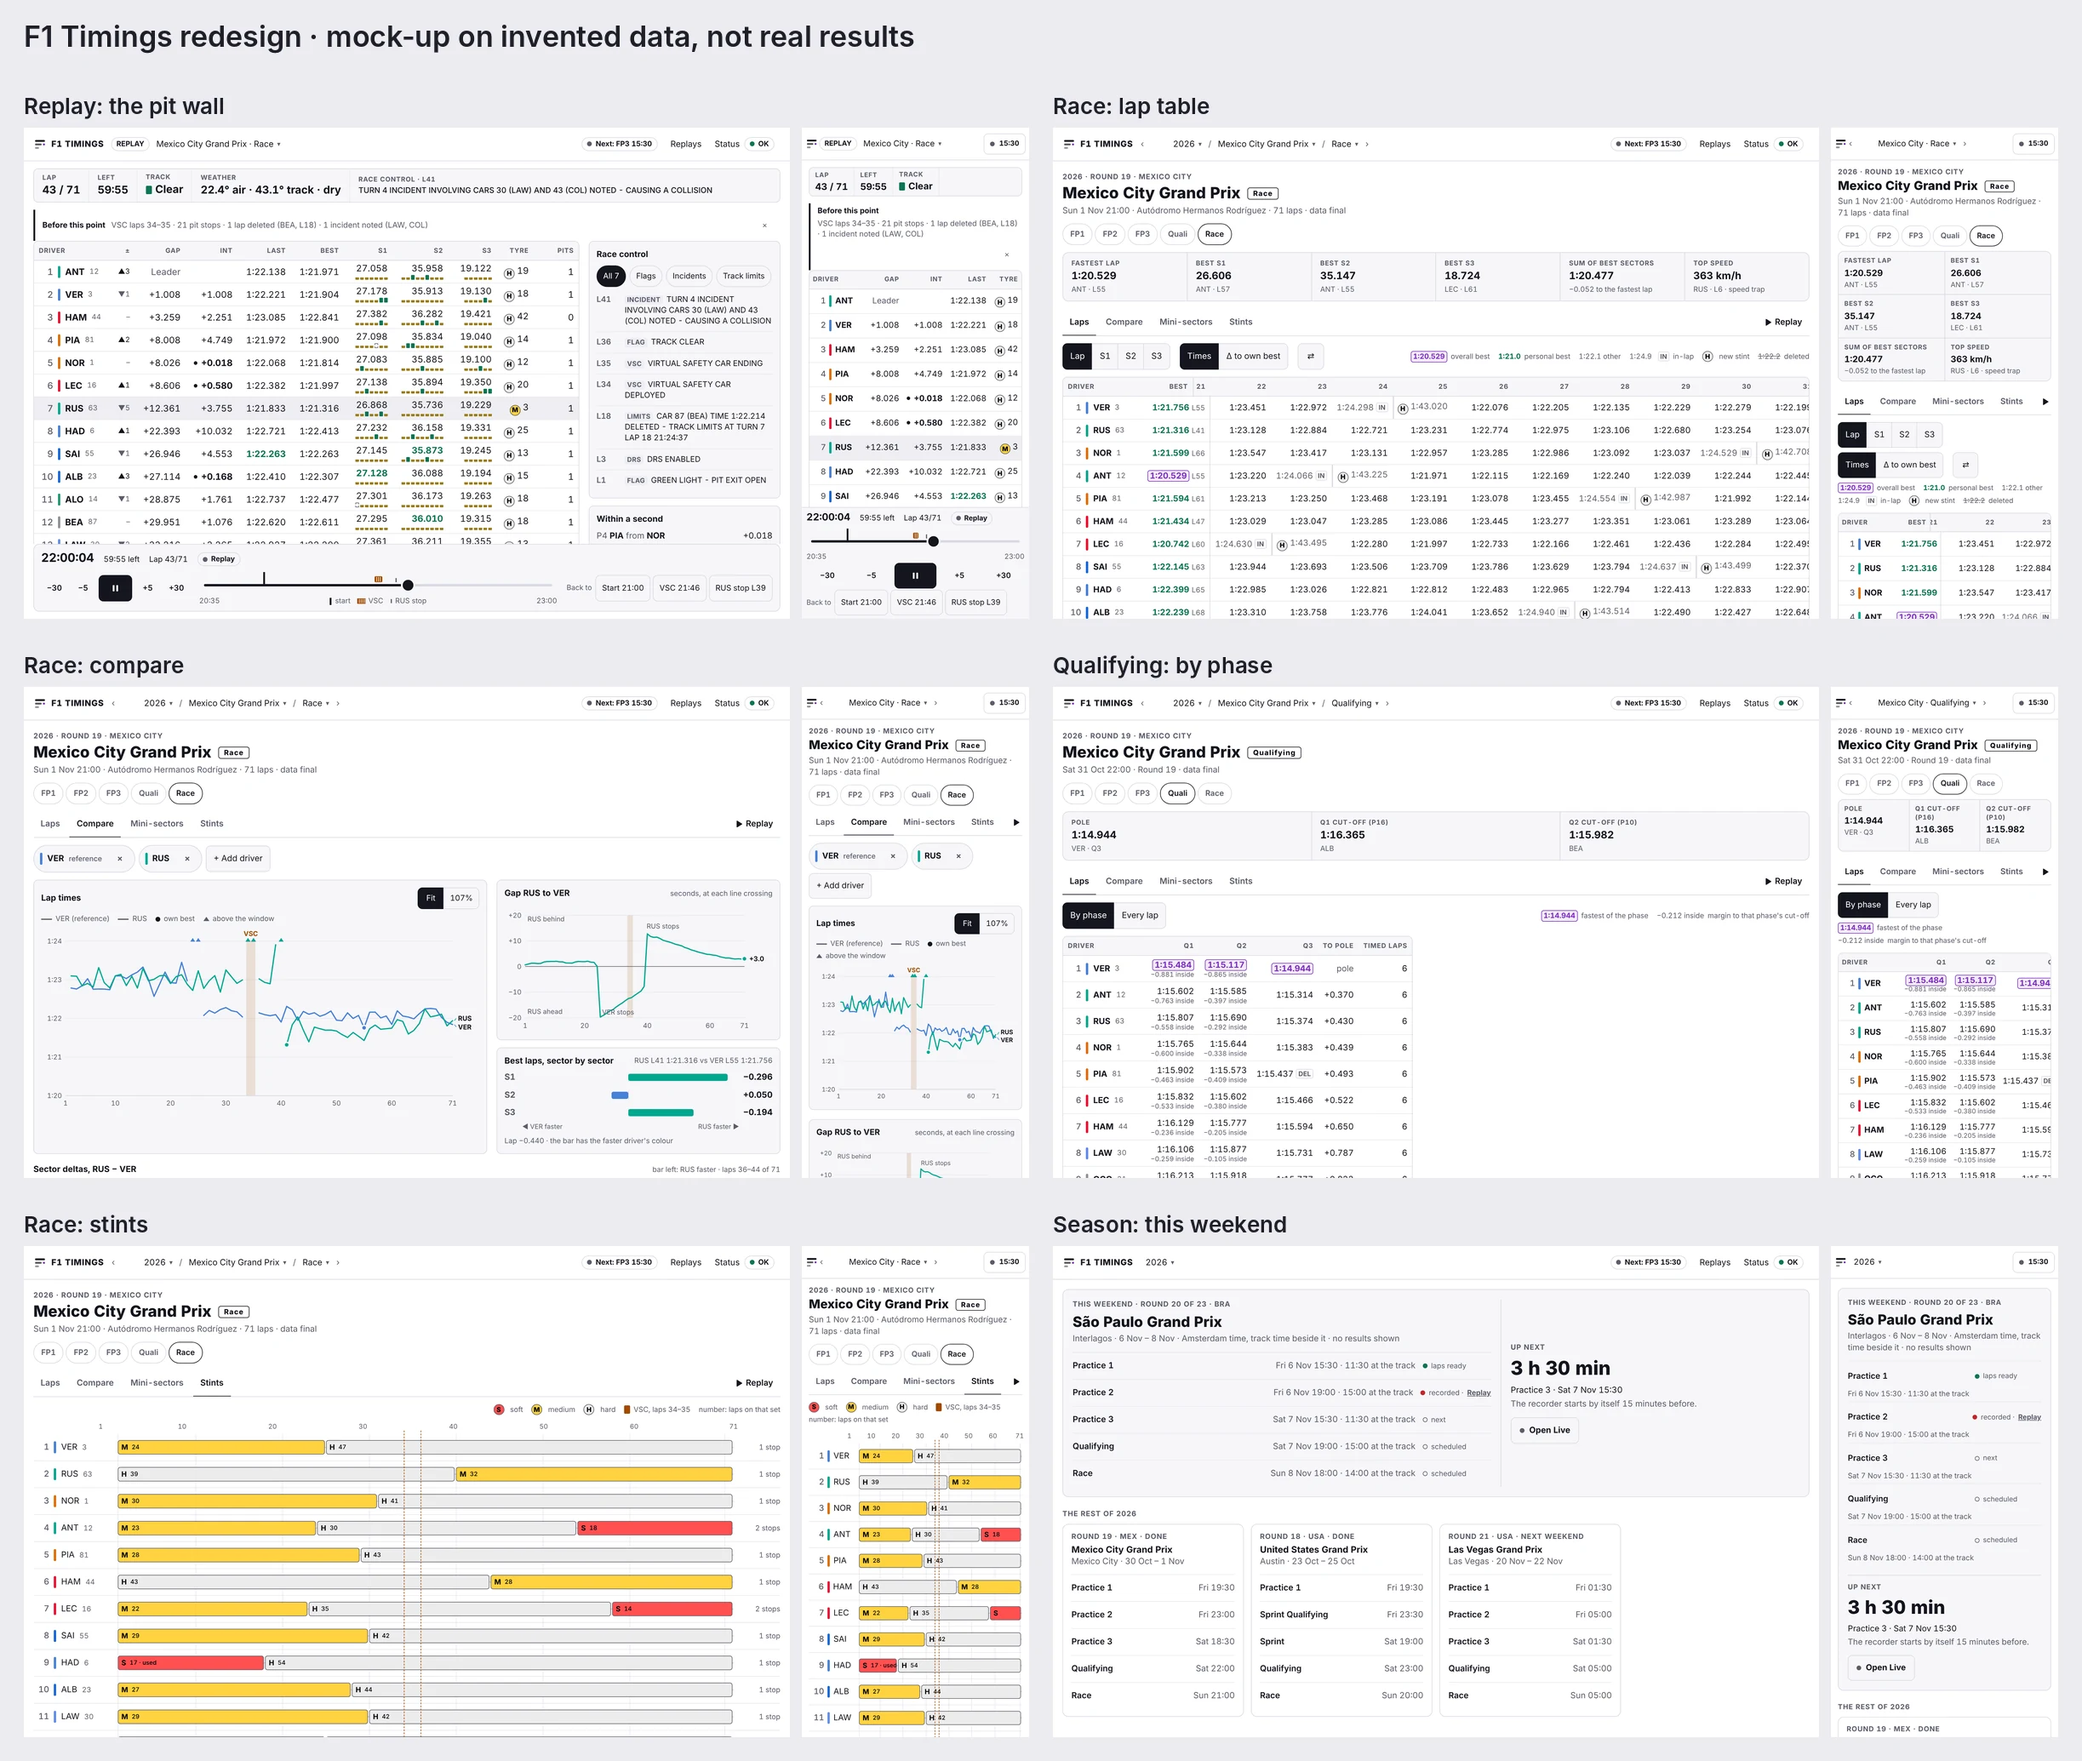
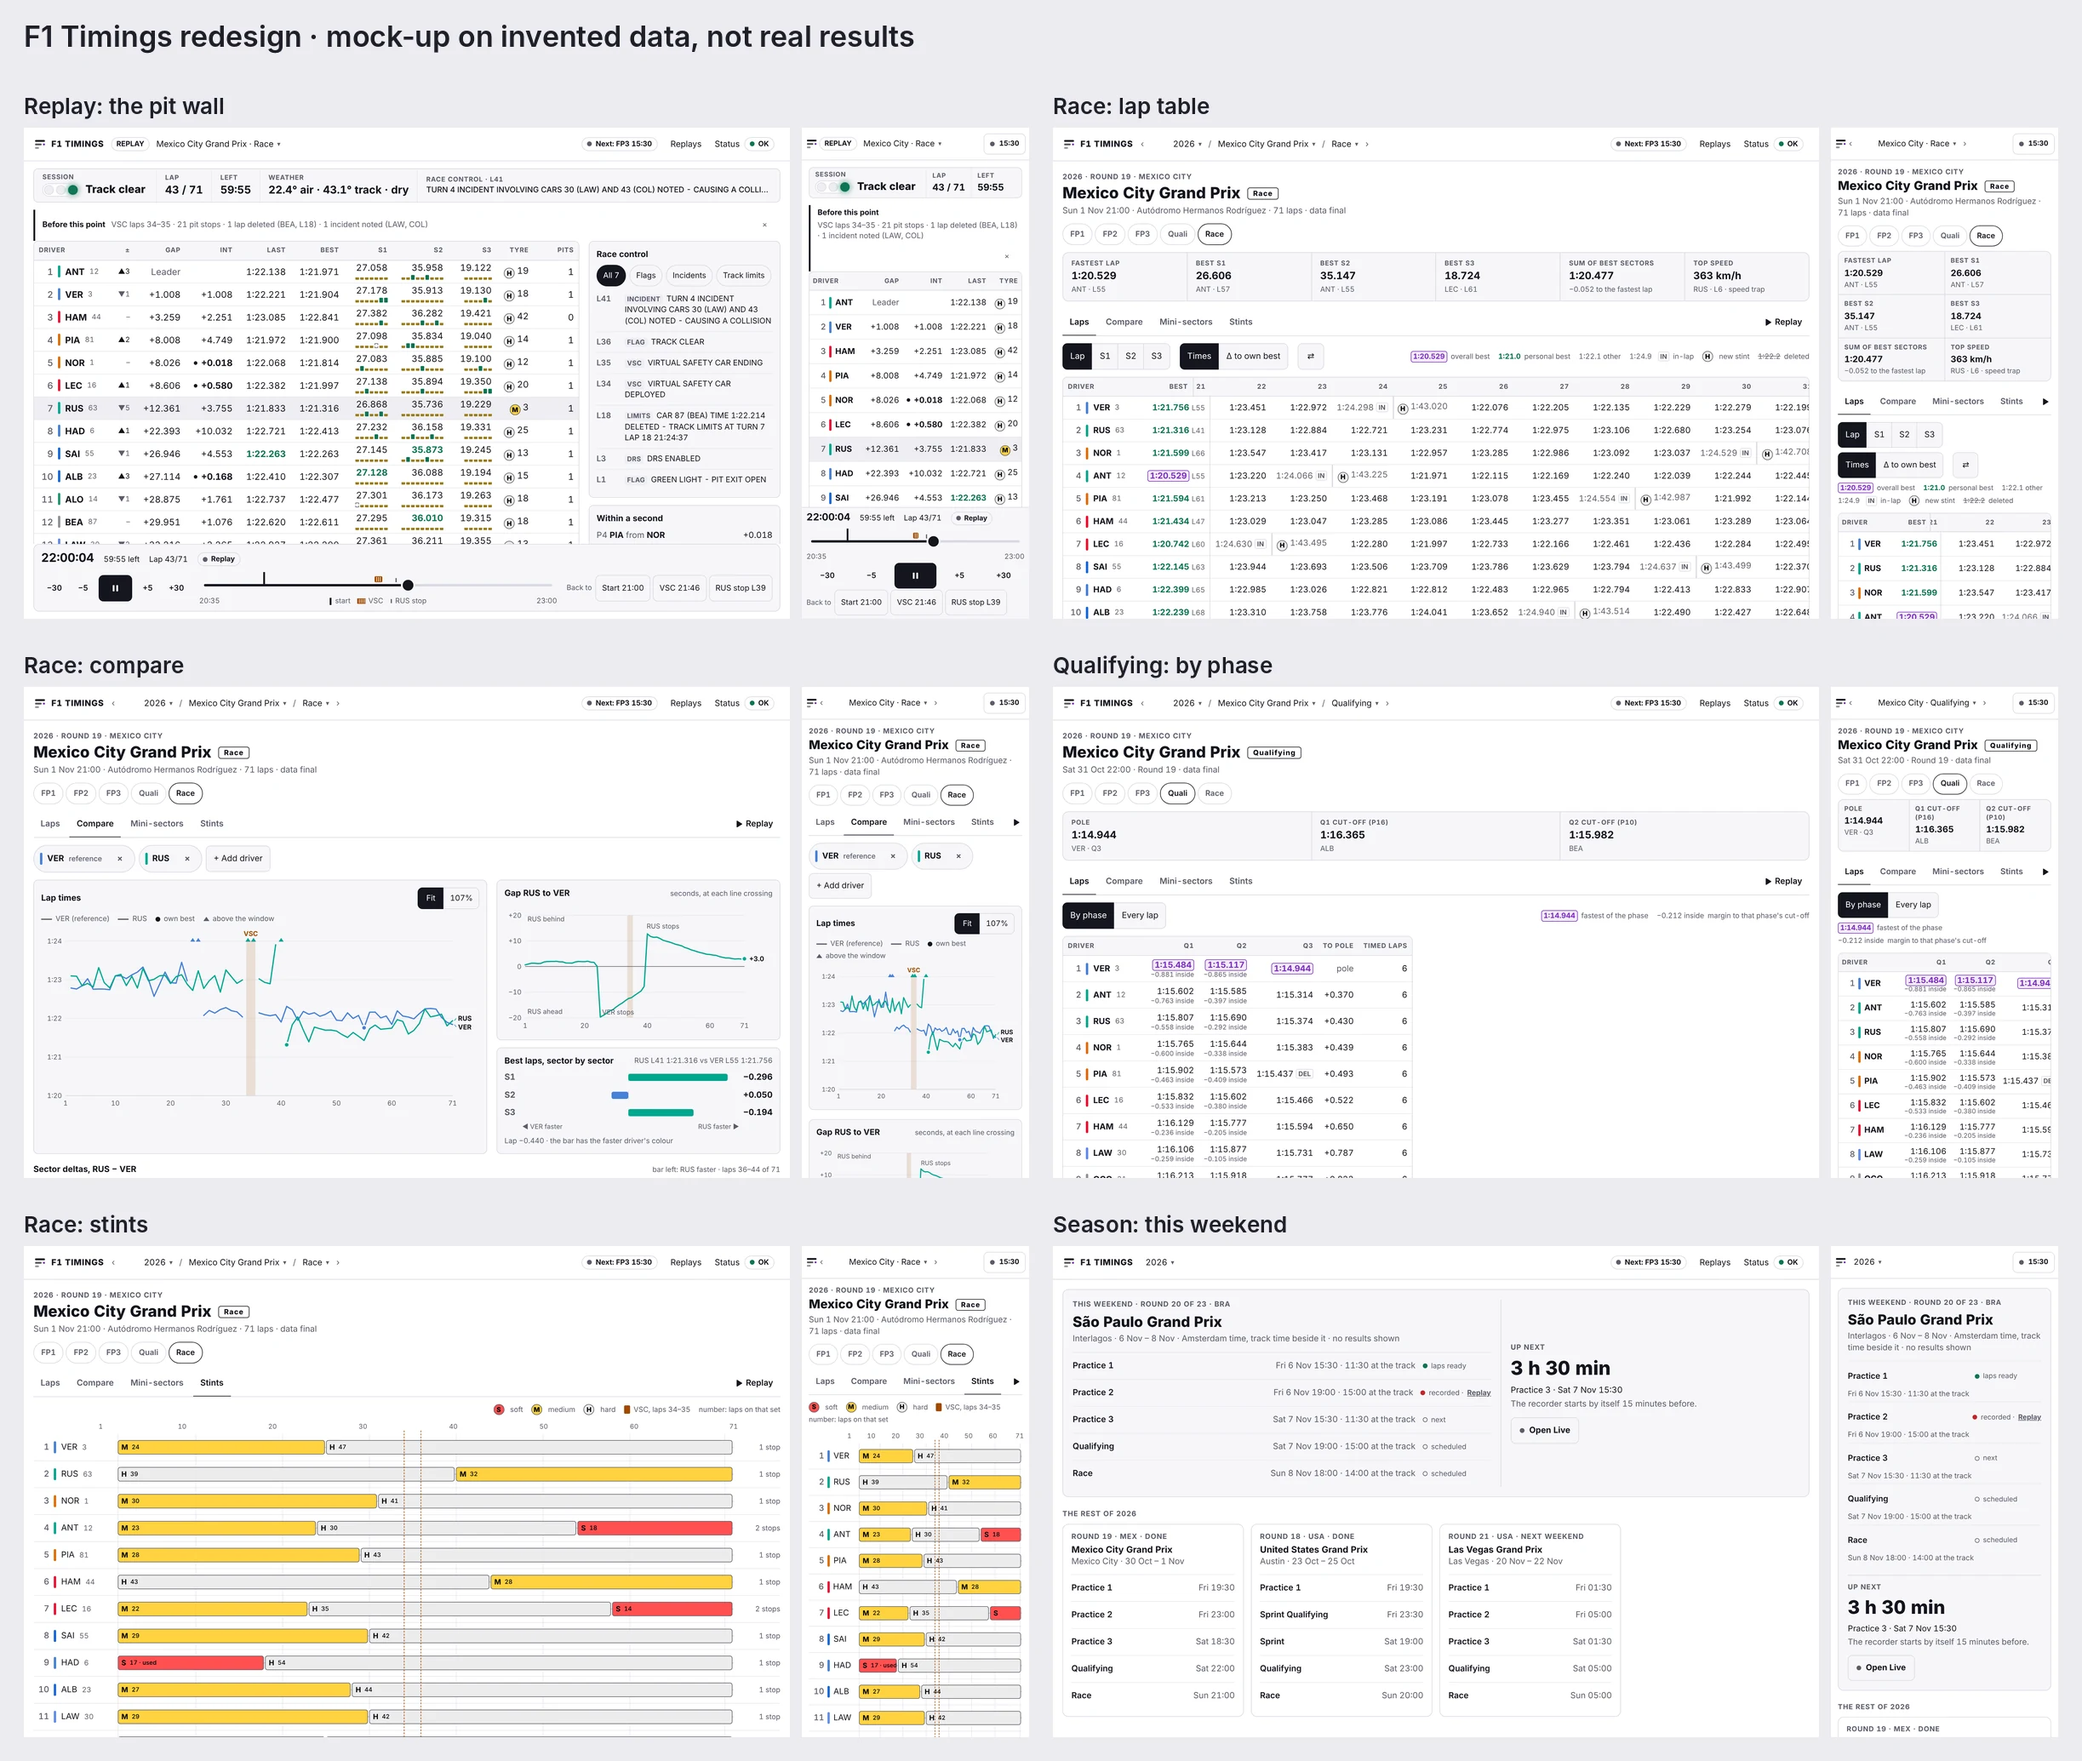
docs(design): add the owner's session light to the pit wall (P4d)
At the owner's request (2026-11-07) the pit wall's status strip starts
with a session light: red, yellow and green lamps in fixed positions,
the lit one named in words (Track clear, Yellow flag, Safety car, VSC,
VSC ending, Red flag, Stopped, Chequered flag, Not started, or Track
status unknown), from SessionStatus and TrackStatus. Position and the
word carry the state, so it does not rely on red-green colour vision.
While a session runs, the tab title starts with the same word.

- PHASES.md P4d: the light in scope, and a [CI] criterion for every
  state and the tab-title prefix.
- mockup/: lightOf, sessionLight and lightGallery in screens.mjs, the
  lamp styles in app.css; strip dividers move to the left edge so a
  phone's hidden cells leave no stray line.
- renders/: the replay frames and overviews re-rendered, plus
  session-light-{dark,light}.webp with every state.
- README: the owner's decision, the build plan with issues #46-#52,
  and the three findings now folded into P4a, P4d and P4f.

Claude-Session: https://claude.ai/code/session_01SBELuk29AunXEw5NSCRJ9F

diff --git a/docs/design/2026-11-redesign/mockup/app.css b/docs/design/2026-11-redesign/mockup/app.css
@@ -828,11 +828,11 @@
   gap: 1px;
   min-height: 54px;
   padding: 6px 14px;
-  border-right: 1px solid var(--line-soft);
 }
 
-.strip > div:last-child {
-  border-right: 0;
+/* Dividers on the left of each following cell, so cells hidden on a phone leave no stray line. */
+.strip > div + div {
+  border-left: 1px solid var(--line-soft);
 }
 
 .strip dt {
@@ -2051,5 +2051,104 @@
     grid-column: 1 / -1;
     grid-row: 2;
     font-size: 12.5px;
+  }
+}
+
+/* ---------------------------------------------------------------- the session light (owner, 2026-11-07) */
+
+/* Fixed lamp positions (red, yellow, green) and the state in words: position and text carry it, not only hue. */
+.light {
+  display: inline-flex;
+  align-items: center;
+  gap: 10px;
+}
+
+.lamps {
+  display: inline-flex;
+  gap: 4px;
+  padding: 3px;
+  border-radius: 999px;
+  background: var(--bg);
+  outline: 1px solid var(--line);
+  outline-offset: -1px;
+}
+
+.lamps i {
+  width: 12px;
+  height: 12px;
+  border-radius: 50%;
+  background: var(--raised);
+  outline: 1px solid var(--line);
+  outline-offset: -1px;
+}
+
+.light.big .lamps i {
+  width: 16px;
+  height: 16px;
+}
+
+.light[data-l="r"] .lamps i.r {
+  background: var(--live);
+  outline-color: var(--live);
+  box-shadow: 0 0 10px var(--live);
+}
+
+.light[data-l="y"] .lamps i.y {
+  background: var(--amber);
+  outline-color: var(--amber);
+  box-shadow: 0 0 10px var(--amber);
+}
+
+.light[data-l="g"] .lamps i.g {
+  background: var(--green);
+  outline-color: var(--green);
+  box-shadow: 0 0 10px var(--green);
+}
+
+.light[data-l="chq"] .lamps i {
+  background: repeating-conic-gradient(var(--fg) 0 25%, var(--bg) 0 50%) 0 0 / 6px 6px;
+  outline-color: var(--fg);
+}
+
+.lw {
+  font-family: var(--display);
+  font-size: 18px;
+  font-weight: 800;
+  white-space: nowrap;
+}
+
+.light:not(.big) .lw {
+  font-size: 14px;
+}
+
+.strip .lightcell {
+  padding-right: 18px;
+}
+
+.lightgallery {
+  display: flex;
+  flex-wrap: wrap;
+  gap: 12px 24px;
+  margin: 0;
+  padding: 14px;
+  list-style: none;
+  border: 1px solid var(--line);
+  border-radius: 8px;
+  background: var(--panel);
+}
+
+.lightgallery li {
+  display: grid;
+  gap: 4px;
+}
+
+.lightgallery small {
+  color: var(--muted);
+  font-size: 11px;
+}
+
+@media (forced-colors: active) {
+  .lamps i {
+    forced-color-adjust: none;
   }
 }

diff --git a/docs/design/2026-11-redesign/README.md b/docs/design/2026-11-redesign/README.md
@@ -4,7 +4,20 @@ Five independent critics, one discipline each (visual design, UX and information
 
 **The interactive review, with Keep/Tweak/Drop voting and comments:** https://claude.ai/artifact/96WFVvKAJdPZtL8BsiJ4m8 (private to the owner until shared from its Share menu). It also holds the captures of both sites, which stay out of git.
 
-Status: a proposal. Nothing in the app changes until the owner picks proposals; four of them change a rule of A§13 and are marked **owner's call**.
+Status: **approved.** On 2026-11-07 the owner kept all ten proposals (four of them change a rule of A§13, marked **owner's call**) and added a session light to the pit wall (R2). The build is planned as phases P4a–P4f in `docs/plan/PHASES.md` §3, tracked in [#46](https://github.com/mwijkhuisen/F1_Timings/issues/46).
+
+## Build plan
+
+| Phase | Proposals | Issue |
+|---|---|---|
+| P4a: Design system and accessibility base | R9, R5 | [#47](https://github.com/mwijkhuisen/F1_Timings/issues/47) |
+| P4b: Session views: lap table, tiles and qualifying | R4, R3 | [#48](https://github.com/mwijkhuisen/F1_Timings/issues/48) |
+| P4c: Wayfinding and a spoiler-safe start | R7, R1 | [#49](https://github.com/mwijkhuisen/F1_Timings/issues/49) |
+| P4d: The pit wall (with the session light) | R2, R3 | [#50](https://github.com/mwijkhuisen/F1_Timings/issues/50) |
+| P4e: The player | R2, R1, R10, R5 | [#51](https://github.com/mwijkhuisen/F1_Timings/issues/51) |
+| P4f: Compare and stints | R6, R8, R10 | [#52](https://github.com/mwijkhuisen/F1_Timings/issues/52) |
+
+Each issue holds the phase's scope, tagged acceptance criteria, models and effort, and its build, code-review and security-review prompts. P4a goes first; P4d can run next to P4b and P4c.
 
 ![The six mock-up screens in the dark theme, desktop and phone](renders/overview-dark.webp)
 
@@ -106,7 +119,8 @@ Mock-up: [desktop](renders/season-desktop-dark.webp) · [phone](renders/season-p
 
 *From: UX and IA, F1 user, Visual.*
 
-- A status strip above the tower: lap, time left, track status, weather and the latest race-control message.
+- A session light leads the strip (the owner's suggestion, 2026-11-07): red, yellow and green lamps in fixed positions, the lit one named in words (Track clear, Yellow flag, Safety car, VSC, Red flag, Chequered flag, Not started). While a session runs, the tab title starts with the same word.
+- The rest of the strip: lap, time left, weather and the latest race-control message.
 - A race-control panel with filters, a "within a second" list from the intervals, and the fastest lap so far.
 - One control model around the session time T: every nudge moves T, so −5 is always earlier (live: 5 s more delay). The clock line sits in the player.
 - A compact transport (−30, −5, Play, +5, +30) instead of seven stretched buttons.
@@ -219,11 +233,11 @@ Mock-up: [desktop](renders/replay-desktop-dark.webp) · [phone](renders/replay-p
 - **Track map, telemetry traces, standings.** Non-goals in A§1.
 - **A canvas-rendered UI.** No DOM text means no find, zoom or screen reader.
 
-## Found in passing (separate fixes, not design)
+## Found in passing (folded into the phases)
 
-1. **Compare chart: a deleted lap can lose its hollow point.** `apps/web/src/views/lap-chart-option.ts` sets `symbol: 'emptyCircle'` per deleted lap but leaves `showAllSymbol` at ECharts 6.1's default `'auto'`, which thins symbols that would overlap (the data-viz critic's server-side render kept every fourth symbol at 390 px for a 57-lap race). Fix: `showAllSymbol: true` with `symbol: 'none'` on ordinary laps. Also, ECharts' default `symbolSize` is 6 (`LineSeries.js`), so A§13's "8 px, twice the default" is off.
-2. **Live tower outside races [U].** `apps/web/src/views/Tower.tsx` reads only `GapToLeader` and `IntervalToPositionAhead`. In practice and qualifying the feed reportedly sends `TimeDiffToFastest` and `TimeDiffToPositionAhead` (qualifying per part, under `Stats`), which `packages/contracts/src/live.ts` does not type, so Gap and Int may stay blank there. Check against a practice and a qualifying recording in `fixtures-private/`.
-3. **Contrast test gap.** `apps/web/test/contrast.test.ts` checks text on `--bg` only; the light theme's green `#18803a` is 4.49:1 on `--raised`.
+1. **Compare chart: a deleted lap can lose its hollow point.** `apps/web/src/views/lap-chart-option.ts` sets `symbol: 'emptyCircle'` per deleted lap but leaves `showAllSymbol` at ECharts 6.1's default `'auto'`, which thins symbols that would overlap (the data-viz critic's server-side render kept every fourth symbol at 390 px for a 57-lap race). Fix: `showAllSymbol: true` with `symbol: 'none'` on ordinary laps. Also, ECharts' default `symbolSize` is 6 (`LineSeries.js`), so A§13's "8 px, twice the default" is off. Now part of P4f ([#52](https://github.com/mwijkhuisen/F1_Timings/issues/52)).
+2. **Live tower outside races [U].** `apps/web/src/views/Tower.tsx` reads only `GapToLeader` and `IntervalToPositionAhead`. In practice and qualifying the feed reportedly sends `TimeDiffToFastest` and `TimeDiffToPositionAhead` (qualifying per part, under `Stats`), which `packages/contracts/src/live.ts` does not type, so Gap and Int may stay blank there. Check against a practice and a qualifying recording in `fixtures-private/`. Now part of P4d ([#50](https://github.com/mwijkhuisen/F1_Timings/issues/50)).
+3. **Contrast test gap.** `apps/web/test/contrast.test.ts` checks text on `--bg` only; the light theme's green `#18803a` is 4.49:1 on `--raised`. Now part of P4a ([#47](https://github.com/mwijkhuisen/F1_Timings/issues/47)).
 
 ## The mock-up
 
@@ -238,6 +252,7 @@ Static HTML on invented data: 22 drivers on a 2026-like grid, a 71-lap race with
 | stints | [dark](renders/stints-desktop-dark.webp) · [light](renders/stints-desktop-light.webp) | [dark](renders/stints-phone-dark.webp) · [light](renders/stints-phone-light.webp) |
 | season | [dark](renders/season-desktop-dark.webp) · [light](renders/season-desktop-light.webp) | [dark](renders/season-phone-dark.webp) · [light](renders/season-phone-light.webp) |
 | laps, Δ to own best | [dark](renders/laps-desktop-dark-delta.webp) | [dark](renders/laps-phone-dark-delta.webp) |
+| session light, every state | [dark](renders/session-light-dark.webp) · [light](renders/session-light-light.webp) | (same) |
 
 Regenerate (Node 26; `render.cjs` needs Playwright with Chromium, preinstalled in Claude Code cloud sessions and not a dependency of this repository):
 

diff --git a/docs/plan/PHASES.md b/docs/plan/PHASES.md
@@ -314,13 +314,15 @@ Remaining 2026 weekends (OpenF1 schedule): Austin (race 25 Oct) · Mexico City 3
 
 - **Goal:** the live and replay screen tells the story of the session at a glance.
 - **Scope in:**
-  - a status strip above the tower: the lap, the time left (counting down locally while `Extrapolating`), the track status in words with a flag shape, the weather, and the latest race-control message (text only)
+  - a status strip above the tower: the session light, the lap, the time left (counting down locally while `Extrapolating`), the weather, and the latest race-control message (text only)
+  - the session light (owner, 2026-11-07) at the front of the strip: red, yellow and green lamps in fixed positions, the lit one named in words (Track clear, Yellow flag, Safety car, VSC, VSC ending, Red flag, Stopped, Chequered flag, Not started, or "Track status unknown" for a code it does not know), from `SessionStatus` and `TrackStatus`; while a session runs, the tab title starts with the same word
   - beside the tower (below it on a phone): race control up to T, newest first, with category filters and counts; "within a second" pairs from the intervals (races only); the fastest lap so far
   - the tower: "Leader" instead of the leader's lap count; places since the start (`GridPos`) as ▲ or ▼ with a number, in `--fg` and `--muted`, never green or red; the sector time over its mini-sector strip (6 × 8 px, the P4a shapes) with a legend; tyre with age and new or used; IN PIT and OUT tags; a tap on a driver focuses that row
   - [U] the tower per session type: the practice and qualifying gap and interval fields (reportedly `TimeDiffToFastest`, `TimeDiffToPositionAhead`, and `Stats` per qualifying part) checked on a recording, typed in `packages/contracts/src/live.ts`, `—` with a reason where a gap does not exist
 - **Scope out:** the player bar (P4e).
 - **Acceptance:**
   - [CI] unit tests on synthetic states: the strip (clear, SC, VSC, red), race control by T and category, the within-a-second pairs, places since the start.
+  - [CI] the session light for every `TrackStatus` code, an unknown code and the `SessionStatus` values (not started, stopped, finished), each with its word; the tab title's prefix while a session runs.
   - [CI] the tower fills Gap and Int for synthetic practice, qualifying and race lines.
   - [CI] feed text renders as text only: a message holding markup stays text.
   - [box] the practice and qualifying gap fields are checked on a real recording with a command the PR supplies, and the fact is written into A§11.
